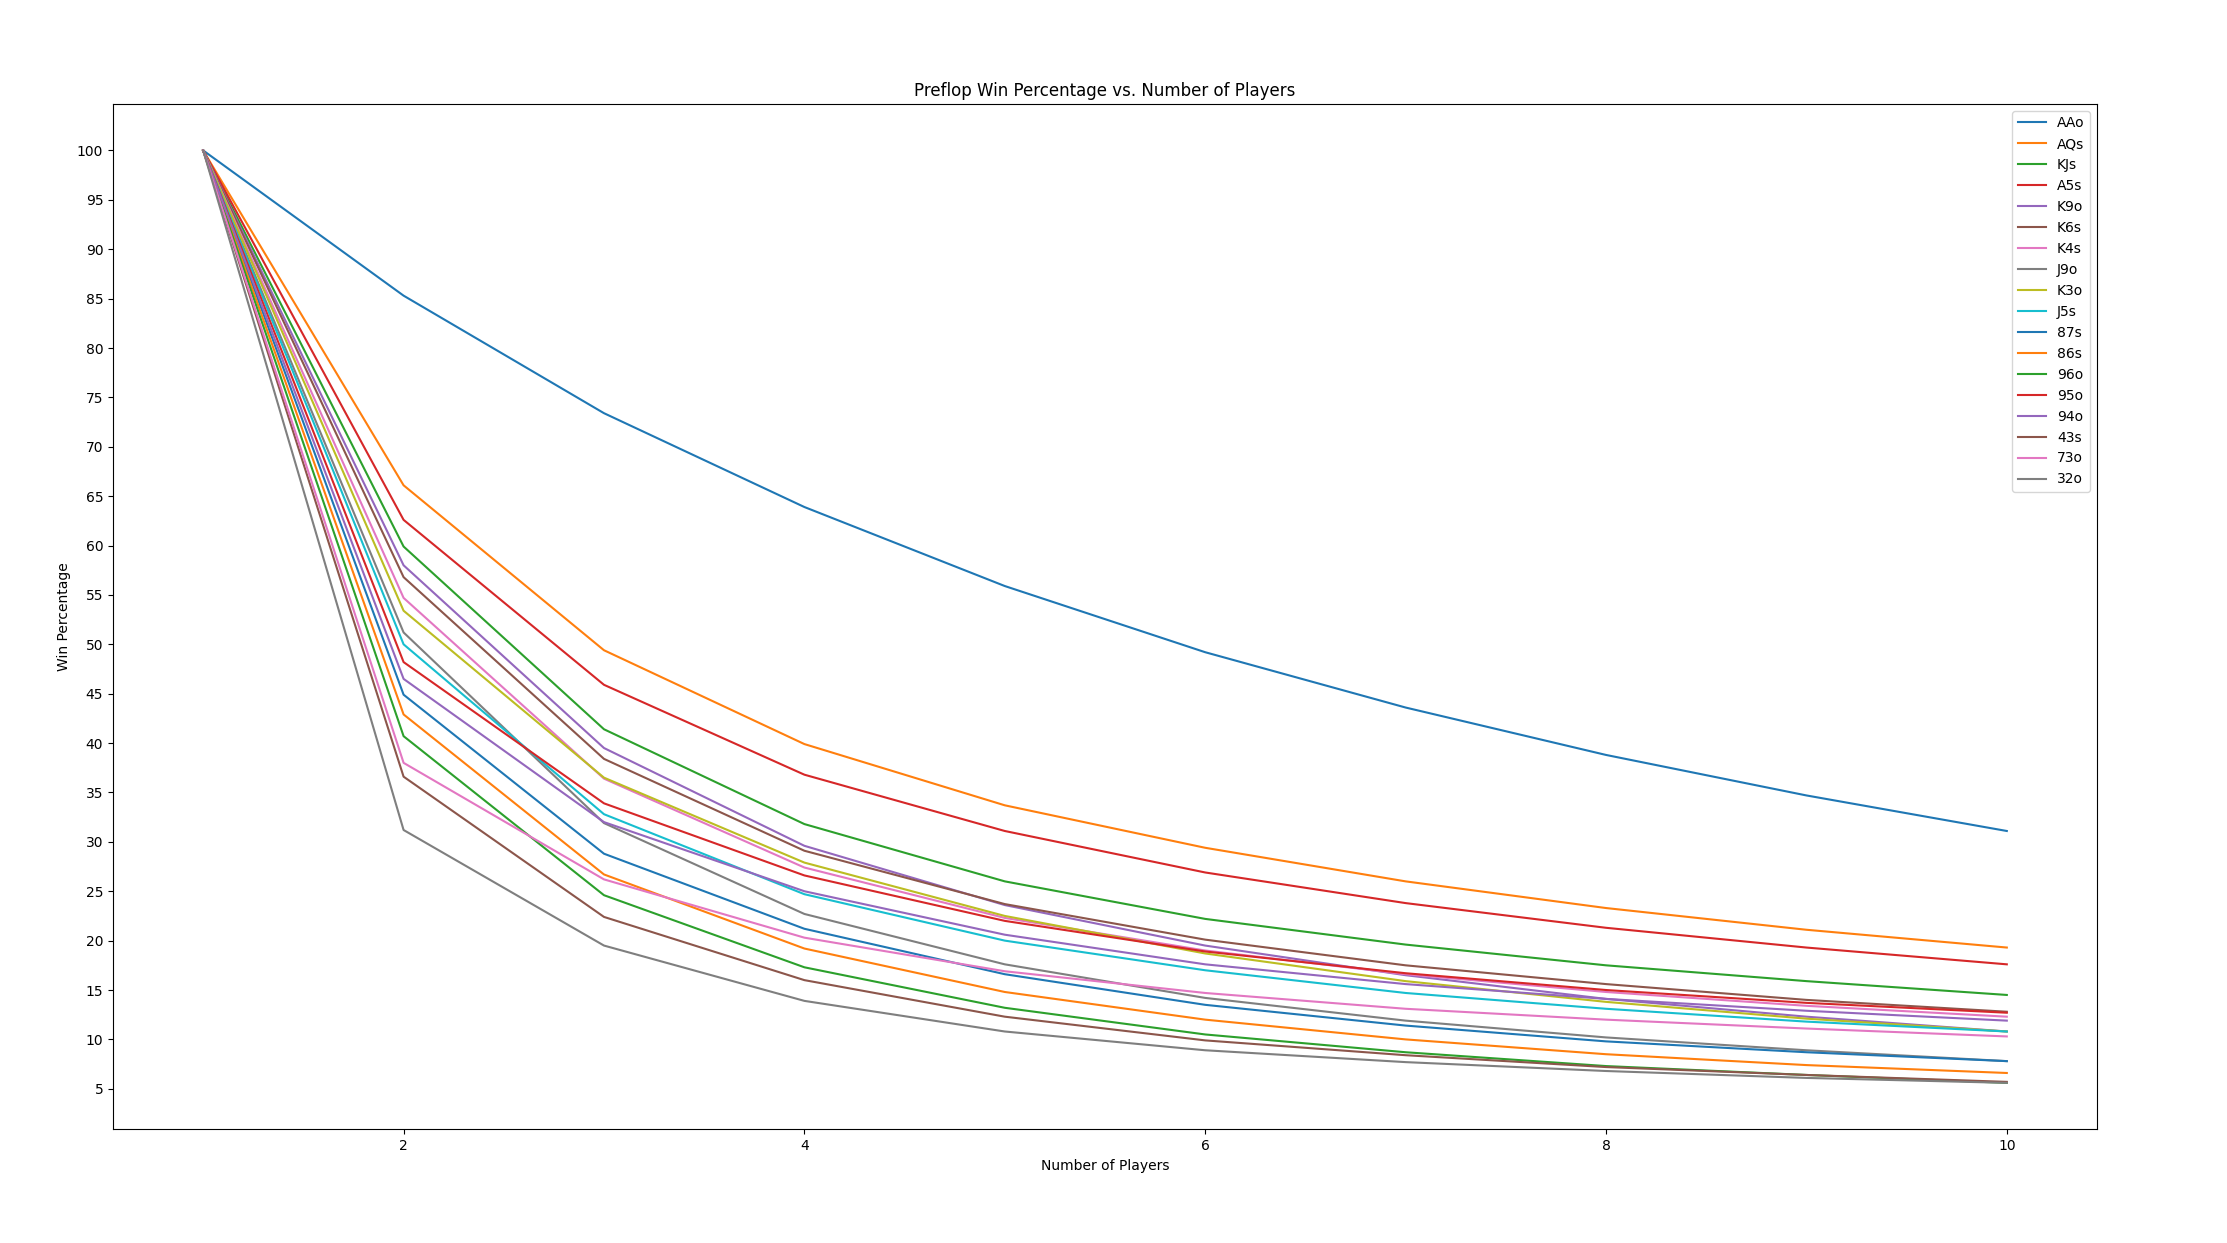
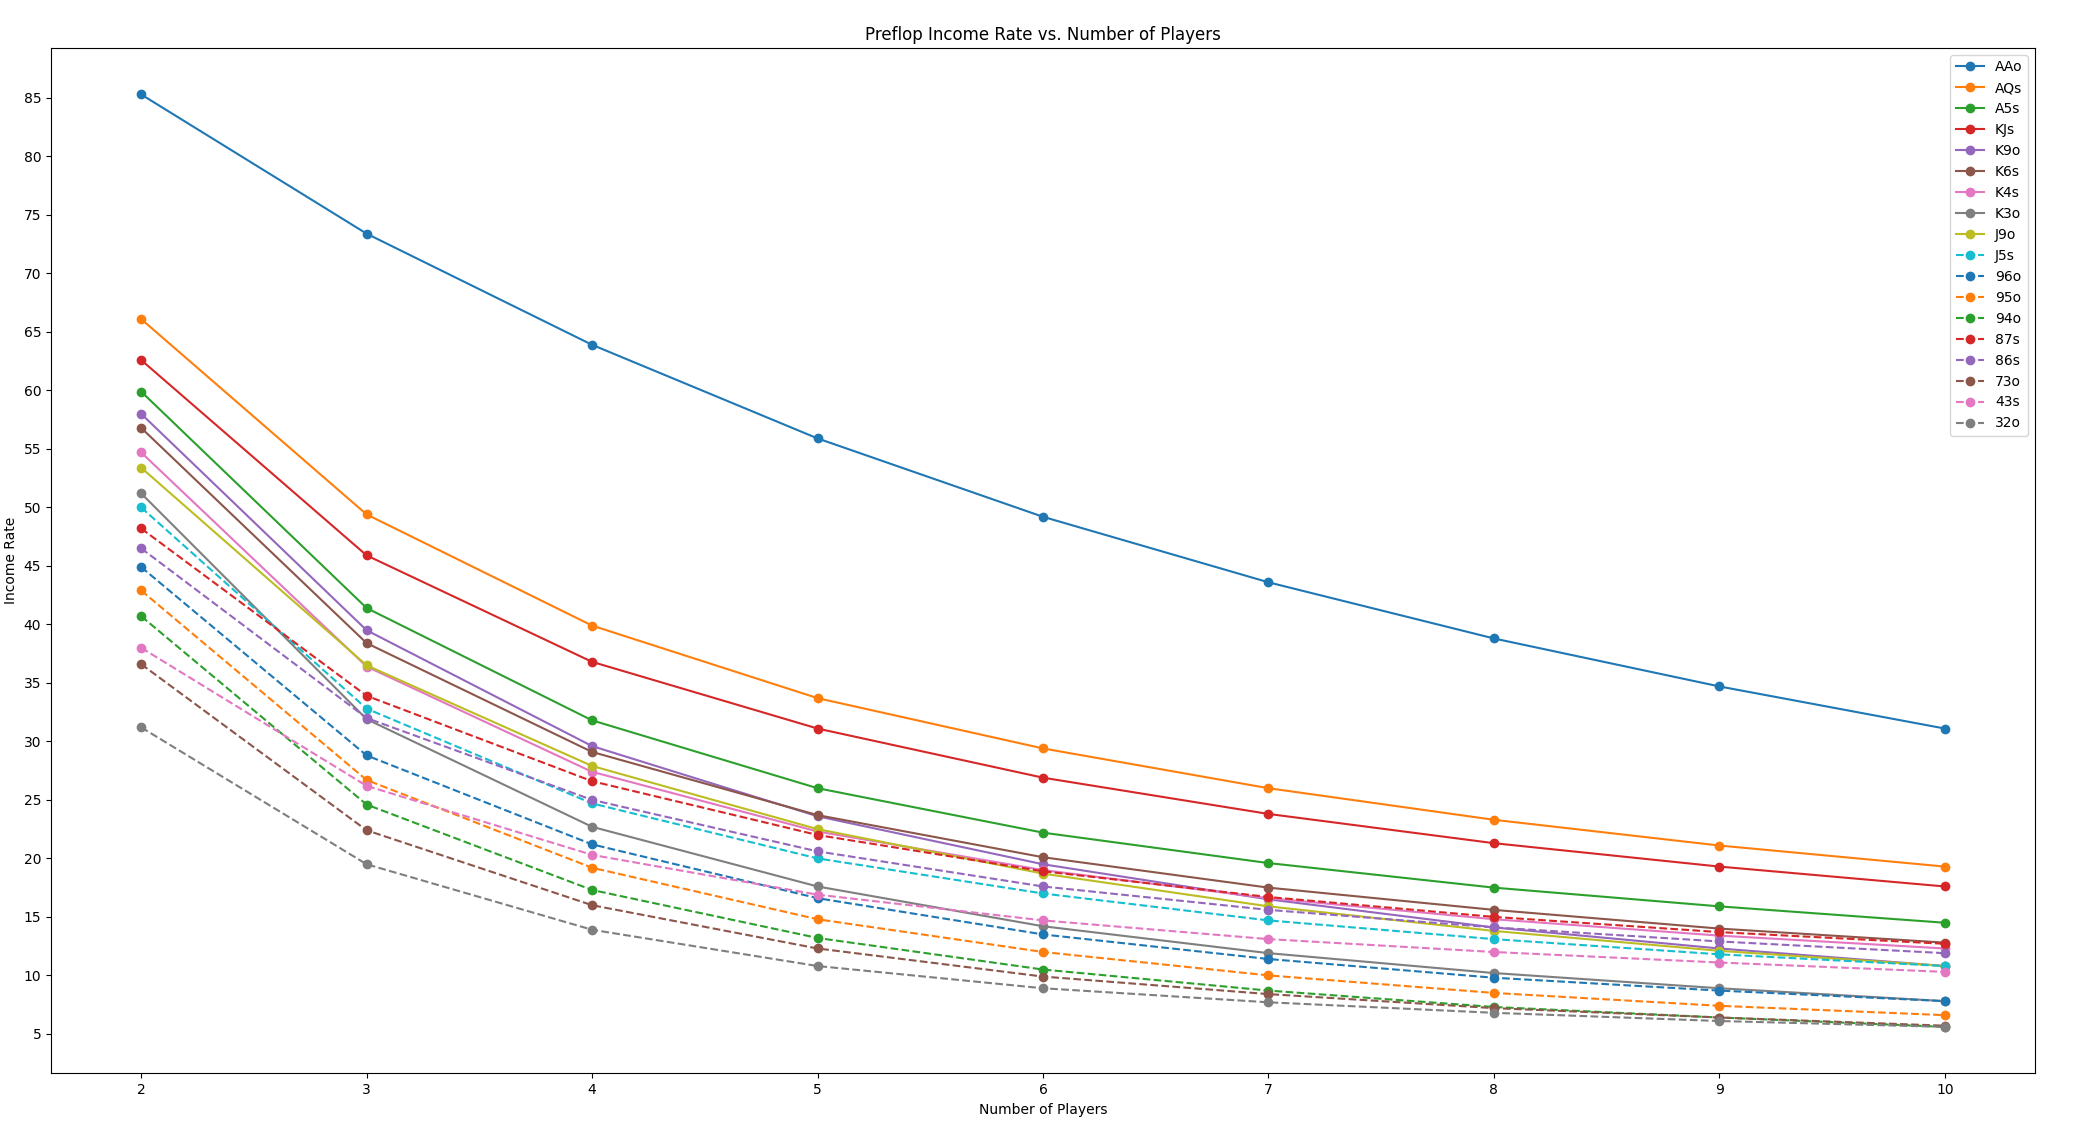
added hse_2

diff --git a/simulation.py b/simulation.py
@@ -4,15 +4,16 @@ from hse.hse_1 import hse_1
 from hse.hand_potential_1 import HandPotential_1
 from hse.hand_potential_2 import HandPotential_2
 from hse.percentage_rank import percentage_rank
+from hse.odds import mc_odds_calculator
 
 deck = Deck()
 evaluator = Evaluator()
 num_opps = 1
 
 # hero_hand = deck.draw(2)
-hero_hand = [Card.new('As'), Card.new('2d')]
+hero_hand = [Card.new('8d'), Card.new('9d')]
 # villain_hand = deck.draw(2)
-villain_hand = [Card.new('7d'), Card.new('8d')]
+villain_hand = [Card.new('As'), Card.new('Kc')]
 print("Hero's hand:")
 Card.print_pretty_cards(hero_hand)
 
@@ -25,13 +26,23 @@ preflop_monte_carlo(hero_hand, 2)
 print("---Villain---")
 preflop_monte_carlo(villain_hand, 2)
 print("--------------------")
+print("------Odds------")
+mc_odds_calculator(hero_hand, villain_hand)
+print("--------------------")
+
+
+# remove hands from deck
+for card in hero_hand + villain_hand:
+    deck.cards.remove(card)
 
 # board = deck.draw(3)
-board = [Card.new('Ac'), Card.new('5c'), Card.new('9d')]
+
+board = [Card.new('7d'), Card.new('Td'), Card.new('Ac')]
+for card in board:
+    deck.cards.remove(card)
 
 # remove the cards from the heros hand, villains hand and the board from the deck
-for card in hero_hand + villain_hand + board:
-    deck.cards.remove(card)
+
 
 print("Board:")
 Card.print_pretty_cards(board)
@@ -42,9 +53,9 @@ print("--------------------")
 
 print("------HSE1------")
 print("---Hero---")
-hse_1(board, hero_hand, num_opps)
+hse_1(board, hero_hand)
 print("---Villain---")
-hse_1(board, villain_hand, num_opps)
+hse_1(board, villain_hand)
 
 print("--------------------")
 
@@ -65,6 +76,13 @@ print("Villain's hand rank: ", percentage_rank(board, villain_hand))
 
 print("--------------------")
 
+print("------HSE1------")
+print("---Hero---")
+hse_1(board, hero_hand)
+print("---Villain---")
+hse_1(board, villain_hand)
+print("--------------------")
+
 print("------HandPotential1------")
 print("---Hero---")
 HandPotential_1(board, hero_hand)
@@ -81,6 +99,13 @@ Card.print_pretty_cards(board)
 print("Hero's hand rank: ", percentage_rank(board, hero_hand))
 print("Villain's hand rank: ", percentage_rank(board, villain_hand))
 
+print("--------------------")
+
+print("------HSE1------")
+print("---Hero---")
+hse_1(board, hero_hand)
+print("---Villain---")
+hse_1(board, villain_hand)
 print("--------------------")
 
 hero_rank = evaluator.evaluate(board, hero_hand)
@@ -100,7 +125,7 @@ Card.print_pretty_cards(best_hero_hand)
 print("Villain's best hand:")
 Card.print_pretty_cards(best_villain_hand)
 
-if hero_rank_class < villain_rank_class:
+if hero_rank < villain_rank:
     print("Hero wins!")
-elif hero_rank_class > villain_rank_class:
+elif hero_rank > villain_rank:
     print("Villain wins!")

diff --git a/graph.py b/graph.py
@@ -2,9 +2,13 @@ import matplotlib.pyplot as plt
 import numpy as np
 import pandas as pd
 
+# hands = [
+#     'AAo', 'AQs', 'KJs', 'A5s', 'K9o', 'K6s', 'K4s', 'J9o', 'K3o', 'J5s',
+#     '87s', '86s', '96o', '95o', '94o', '43s', '73o', '32o'
+# ]
+
 hands = [
-    'AAo', 'AQs', 'KJs', 'A5s', 'K9o', 'K6s', 'K4s', 'J9o', 'K3o', 'J5s',
-    '87s', '86s', '96o', '95o', '94o', '43s', '73o', '32o'
+    'AAo', 'KKo', 'QQo', 'JJo', 'TTo', '99o', '88o', 'AKs', '77o', 'AQs',
 ]
 
 # hands = [
@@ -15,28 +19,45 @@ hands = [
 df = pd.read_csv('preflop_equity.csv', header=None)
 
 # x axis will be the number of players  1 to 10
-x = np.arange(1, 11)
+x = np.arange(2, 11)
 
-# select the row with the hands from the hands array
-# and convert it to a numpy array
-y = np.array(df.loc[df[0].isin(hands)].iloc[:, 1:])
+selected_rows = df[df[0].isin(hands)]
+
+# remove the first column and store it separately
+# this is the hand name
+
+# separate out first column of selected rows
+hands2 = selected_rows.iloc[:, 0]
+
+# convert hands to a list
+hands2 = hands2.tolist()
+
+print(hands2)
+
+y = np.array(selected_rows.iloc[:, 1:])
+
+
+# remove first column
+y = y[:, 1:]
+
+# print(y)
 
 # remove the % sign from the end of each value and convert to float
 y = np.array([list(map(lambda x: float(x[:-1]), row)) for row in y])
 
 # axes titles 
 plt.xlabel('Number of Players')
-plt.ylabel('Win Percentage')
+plt.ylabel('Income Rate')
 
 # plot title 
-plt.title('Preflop Win Percentage vs. Number of Players')
+plt.title('Preflop Income Rate vs. Number of Players')
 
 # change y-axis labels intervals
 plt.yticks(np.arange(0, 101, 5))
 
 # plot line graphs for each hand
-for i in range(len(hands)):
-    plt.plot(x, y[i], label=hands[i])
+for i in range(len(hands2)):
+    plt.plot(x, y[i], linestyle=('-' if y[i][0] > 50 else '--'),label=hands2[i], marker='o')
 
 # make a legend
 plt.legend()

diff --git a/hse/hse_2.py b/hse/hse_2.py
@@ -1,0 +1,59 @@
+from deuces import Card, Evaluator, Deck
+import itertools
+
+evaluator = Evaluator()
+
+def hse_2(board, hand):
+    wins = 0
+    losses = 0
+    ties = 0
+
+    deck = Deck()
+
+    for card in board + hand: 
+        deck.cards.remove(card)
+    
+    hero_score = evaluator.evaluate(board, hand)
+    hero_class = evaluator.get_rank_class(hero_score)
+
+    # for all possible starting hands the opponent could have
+    for oppcards_1 in itertools.combinations(deck.cards, 2):
+
+        oppcards1 = list(oppcards_1)
+
+        # Remove the cards from the deck.
+        for card in oppcards1:
+            deck.cards.remove(card)
+
+        villain_score1 = evaluator.evaluate(board, oppcards1)
+
+        # all possible hands of second opponent
+        for oppcards_2 in itertools.combinations(deck.cards, 2):
+
+            oppcards2 = list(oppcards_2)
+
+            villain_score2 = evaluator.evaluate(board, oppcards2)
+
+            if hero_score < min(villain_score1, villain_score2):
+                wins += 1
+            elif hero_score == min(villain_score1, villain_score2):
+                ties += 1
+            else:
+                losses += 1
+
+        # add the cards back
+        for card in oppcards1:
+            deck.cards.append(card)
+
+    print("Hero best hand:")
+    Card.print_pretty_cards(evaluator.get_best_hand(board, hand))
+    print("Rank: ", hero_score)
+    print("Class: ", evaluator.class_to_string(hero_class))
+
+    print("Wins: ", wins)
+    print("Losses: ", losses)
+    print("Ties: ", ties)
+
+    hse = (wins + ties / 2) / (wins + losses + ties)
+    print("HSE_2: ", hse)
+    return hse

diff --git a/hse/mc_preflop.py b/hse/mc_preflop.py
@@ -28,7 +28,7 @@ def preflop_monte_carlo(hand, num_opps, iterations=100000):
             
             if hero_score < min(villain_scores):
                 wins += 1
-            elif hero_score == max(villain_scores):
+            elif hero_score == min(villain_scores):
                 ties += 1
             else:
                 losses += 1
@@ -40,6 +40,8 @@ def preflop_monte_carlo(hand, num_opps, iterations=100000):
         print("Ties: ", ties)
         print("Monte Carlo WP: ", wp)
 
+
+# wont run - approx 2 billion cases 
 def preflop_wp(hand):
     wins = 0
     ties = 0

diff --git a/hse_sim.py b/hse_sim.py
@@ -1,0 +1,18 @@
+from deuces import Card, Evaluator, Deck
+from hse.hse_2 import hse_2
+from hse.hse_1 import hse_1
+
+deck = Deck()
+evaluator = Evaluator()
+
+
+hand = [Card.new('2d'), Card.new('3h')]
+
+board = [Card.new('Kh'), Card.new('7c'), Card.new('2h')]
+
+h_1 = hse_1(board, hand)
+print("------")
+h_2 = hse_2(board, hand)
+print("------")
+print("Adjusted HSE for 2 players:", pow(h_1, 2))
+print("HSE_2:", h_2)

diff --git a/hse/hse_1.py b/hse/hse_1.py
@@ -2,7 +2,7 @@ from deuces import Card, Evaluator, Deck
 
 evaluator = Evaluator()
 
-def hse_1(board, hand, num_opps):
+def hse_1(board, hand):
     wins = 0
     losses = 0
     ties = 0
@@ -40,3 +40,4 @@ def hse_1(board, hand, num_opps):
 
     hse = (wins + ties / 2) / (wins + losses + ties)
     print("HSE: ", hse)
+    return hse
